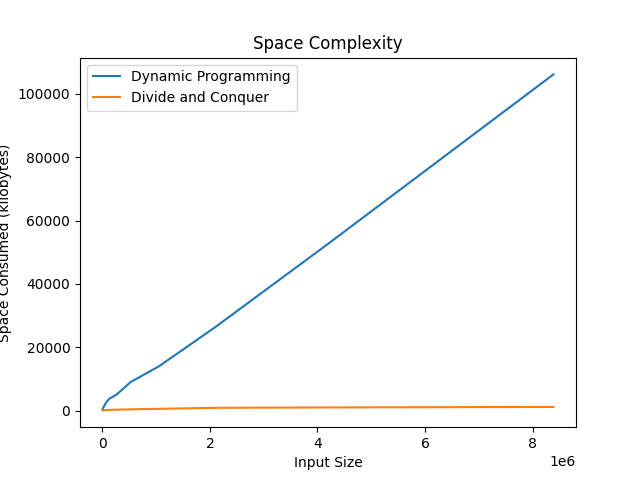
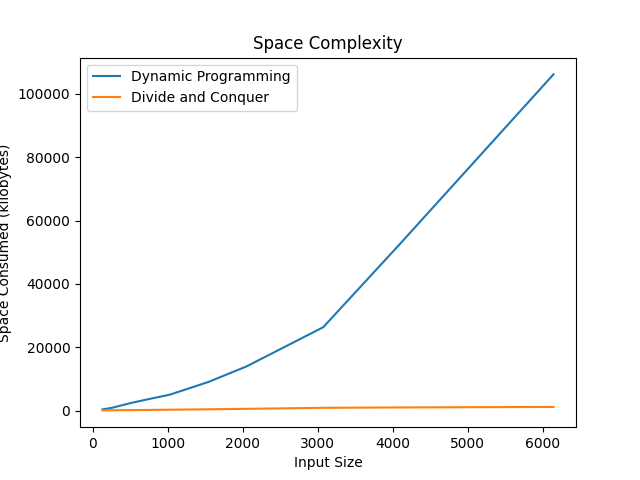
Corrected input size

diff --git a/4455424326_7283322982_plots.py b/4455424326_7283322982_plots.py
@@ -2,7 +2,7 @@ import matplotlib.pyplot as plt
 
 def plot_spacetime():
 
-    index = [4096, 16384, 65536, 131072, 262144, 524288, 1048576, 2097152, 4194304, 8388608]
+    index = [128,256,512,768,1024,1536,2048,3072,4096,6144]
 
     time_taken_DP = [0.012668848037719727,0.04834389686584473,0.18639302253723145,0.3816568851470947,0.7581849098205566,1.516230821609497,3.041546106338501,6.148684024810791,12.171642780303955,24.29126000404358]
     time_taken_DC = [0.02377486228942871,0.09153032302856445,0.3621518611907959,0.7546999454498291,1.4760360717773438,2.9603331089019775,6.148335933685303,12.037397146224976,24.1245219707489,49.14292097091675]
